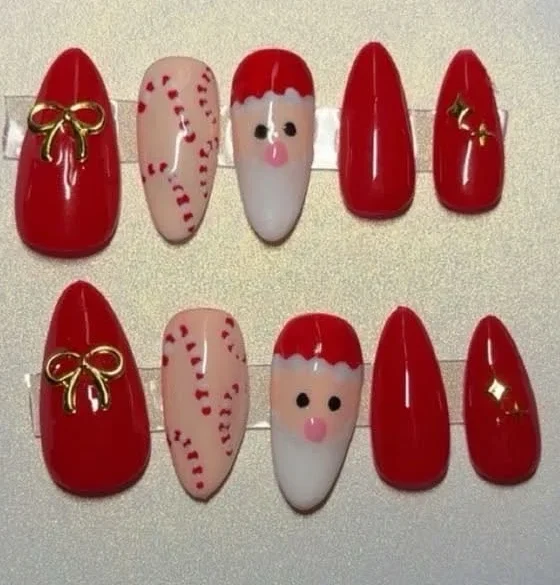
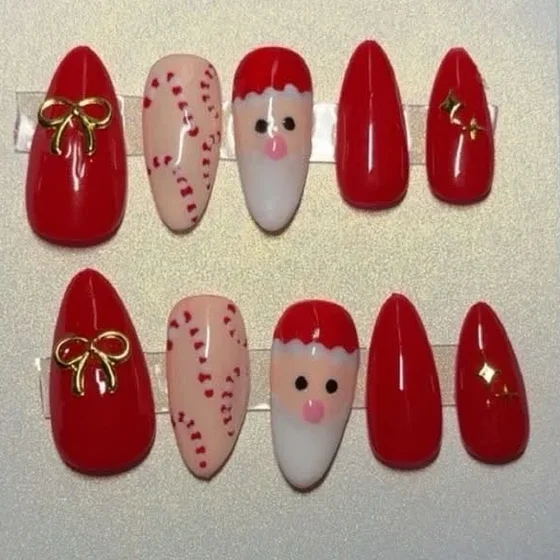
Set photos: same square size, no dark edge on the left one

diff --git a/index.html b/index.html
@@ -148,7 +148,7 @@ nav .w,nav a.l{white-space:nowrap}
 <h2 class="script">My Best Work</h2>
 <svg class="sw"><use href="#sw"/></svg>
 <p class="lead">Every set is handmade. Here are a few I&rsquo;ve made.</p>
-<div class="grid work-grid"><article class="card"><img class="work" src="best-1.webp" width="560" height="460" alt="Christmas set, size S: red with a gold star, candy cane stripes, snowman and red bow nails" loading="lazy"></article><article class="card"><img class="work" src="best-2.webp" width="560" height="460" alt="Christmas set, size M: red almond nails with a gold bow, candy canes, Santa and gold sparkles" loading="lazy"></article></div>
+<div class="grid work-grid"><article class="card"><img class="work" src="best-1.webp" width="560" height="560" alt="Christmas set, size S: red with a gold star, candy cane stripes, snowman and red bow nails" loading="lazy"></article><article class="card"><img class="work" src="best-2.webp" width="560" height="560" alt="Christmas set, size M: red almond nails with a gold bow, candy canes, Santa and gold sparkles" loading="lazy"></article></div>
 <p class="hint">Want one of these? Send your request to us on Facebook.</p>
 </section>
 
